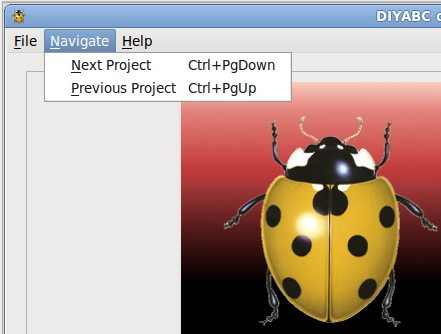
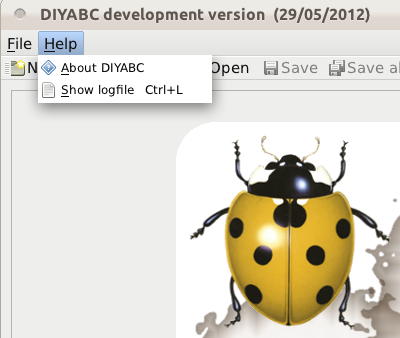
édition de la notice

diff --git a/Notice-DIYABC-v2/gui_description.tex b/Notice-DIYABC-v2/gui_description.tex
@@ -19,17 +19,30 @@ Incidentally, the \texttt{header.txt} file is only built when the project has be
 Once a sufficiently large reference table has been simulated, analyses can be performed. Their different output files are copied to the \emph{analysis} directory included in the project directory, and containing as many directories as analyses performed. Hence, it is now much easier to know with certainty the conditions of each analysis.    
 
 \subsection{Options of the home screen}
-The home screen above has three menus and two buttons.\\ 
+The home screen above has two menus and several buttons.\\ 
 Let's start with the menus. Below are shown all submenus :
 
 \begin{center} 
-\begin{tabular}{ccc}
-\includegraphics[scale=0.3]{gui_pictures/Capture-DIYABC-2.png} & \includegraphics[scale=0.3]{gui_pictures/Capture-DIYABC-3.png}  & \includegraphics[scale=0.3]{gui_pictures/Capture-DIYABC-4.png}\\
+\begin{tabular}{cc}
+\includegraphics[scale=0.5]{gui_pictures/Capture-DIYABC-2.png} & \includegraphics[scale=0.5]{gui_pictures/Capture-DIYABC-3.png}\\
 \end{tabular}
 \end{center}
 
-The \texttt{File} menu has four active options, namely \texttt{New project}, \texttt{Open project}, \texttt{Preferences} and \texttt{Quit}. All are self explanatory. The first two are redundant with the two buttons. There are also four inactive options that will be active once a project has been loaded or created.\\
-The \texttt{Navigate} has two inactive options, \texttt{Next project} and \texttt{Previous project} that will become active once at least two projects have been loaded.\\
+The \texttt{File} menu has seven options, namely \texttt{New project}, \texttt{Open project}, \texttt{Open recent projects}, \texttt{Save all projects}, \texttt{Settings}, \texttt{Simulate data set(s)} and \texttt{Quit}. All are self explanatory.\\
+The \texttt{Help} menu has two options : \texttt{About DIYABC} which opens up a small window providing the names and address of the authors and \texttt{Show logfile} which gives access to a logfile viewer in which are recorded all actions and messages about the execution of the GUI.\\ 
+Just below the menu are five shortcuts to main \texttt{File} menu options.\\
+
+\includegraphics[scale=0.4]{gui_pictures/Capture-DIYABC-4.png}\\
+ 
+On the right, the field \texttt{What's this ?} is an another way to get help on a specific GUI object :\\
+ 
+\includegraphics[scale=0.4]{gui_pictures/Capture-DIYABC-5.png}\\ 
+
+Eventually, below the logo, there are three buttons which are duplicate shortcuts :\\
+ 
+\includegraphics[scale=0.4]{gui_pictures/Capture-DIYABC-6.png}\\ 
+
+
 The \texttt{Help} buttons has two options, the usual ``about'' giving information on the current version and the authors and a \texttt{Show logfile} which opens up a window showing the list of actions performed by the program.\\
   
 Clicking on the \fbox{\textsf{Open project}} button opens up the following frame:\\

diff --git a/Notice-DIYABC-v2/methodology.tex b/Notice-DIYABC-v2/methodology.tex
@@ -77,10 +77,10 @@ $\langle time \rangle$ is the time (always counted in number of generations) at 
 in the same order as they appear in the data file}.\\
 $[nmales$   $nfemales]$ is only used for SNP loci to indicate the number of males (respectively females) from the sample that have been used to detect SNPs. Thes males and females appear in the corresponding sample of the data file.
  
-\item[``reference'' sample] : $\langle time \rangle$ \texttt{refsample} $\langle pop \rangle$  $nmales$   $nfemales$  \textbf{ONLY FOR SNP loci}\\ 
-$\langle time \rangle$ is the time (always counted in number of generations) at which the ``reference'' sample was taken and\\
- $\langle pop \rangle$ is the population number from which is taken the sample.\\
-$nmales$   $nfemales$ indicate the number of males (respectively females) that have been used to detect SNPs in the reference sample. These males and females \textbf{do not appear} in the data file.
+%\item[``reference'' sample] : $\langle time \rangle$ \texttt{refsample} $\langle pop \rangle$  $nmales$   $nfemales$  \textbf{ONLY FOR SNP loci}\\ 
+%$\langle time \rangle$ is the time (always counted in number of generations) at which the ``reference'' sample was taken and\\
+% $\langle pop \rangle$ is the population number from which is taken the sample.\\
+%$nmales$   $nfemales$ indicate the number of males (respectively females) that have been used to detect SNPs in the reference sample. These males and females \textbf{do not appear} in the data file.
 
 \item[population size variation] : $\langle time \rangle$ \texttt{varNe}
  $\langle pop \rangle$ $\langle Ne \rangle$\\
